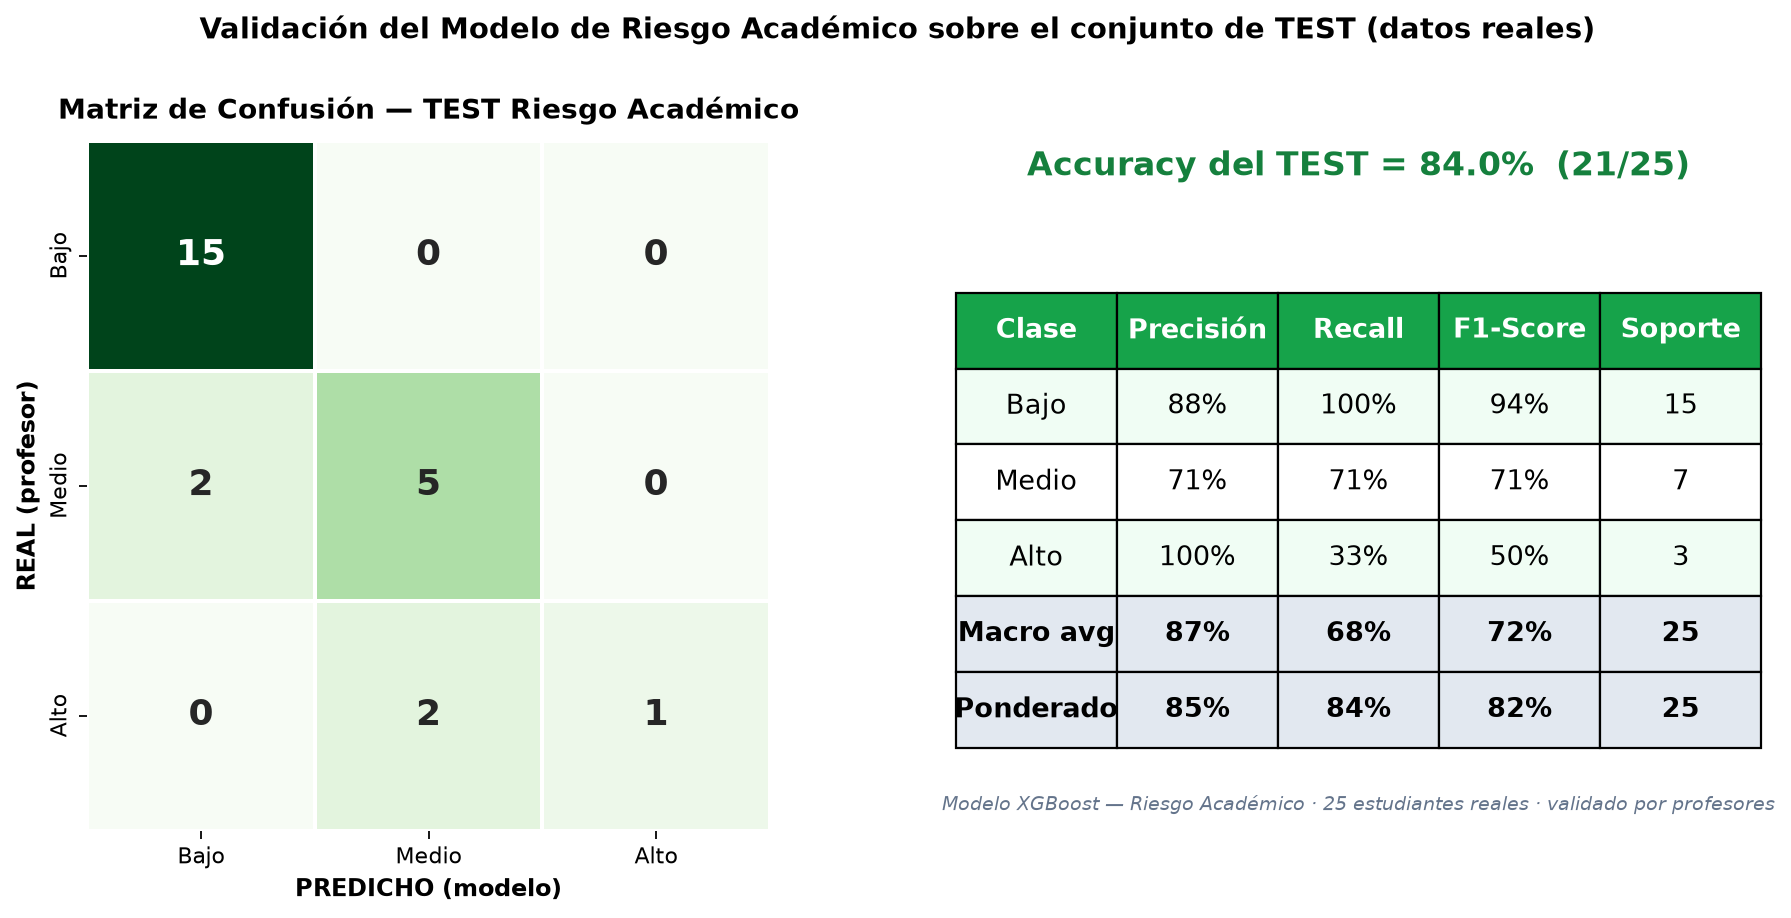
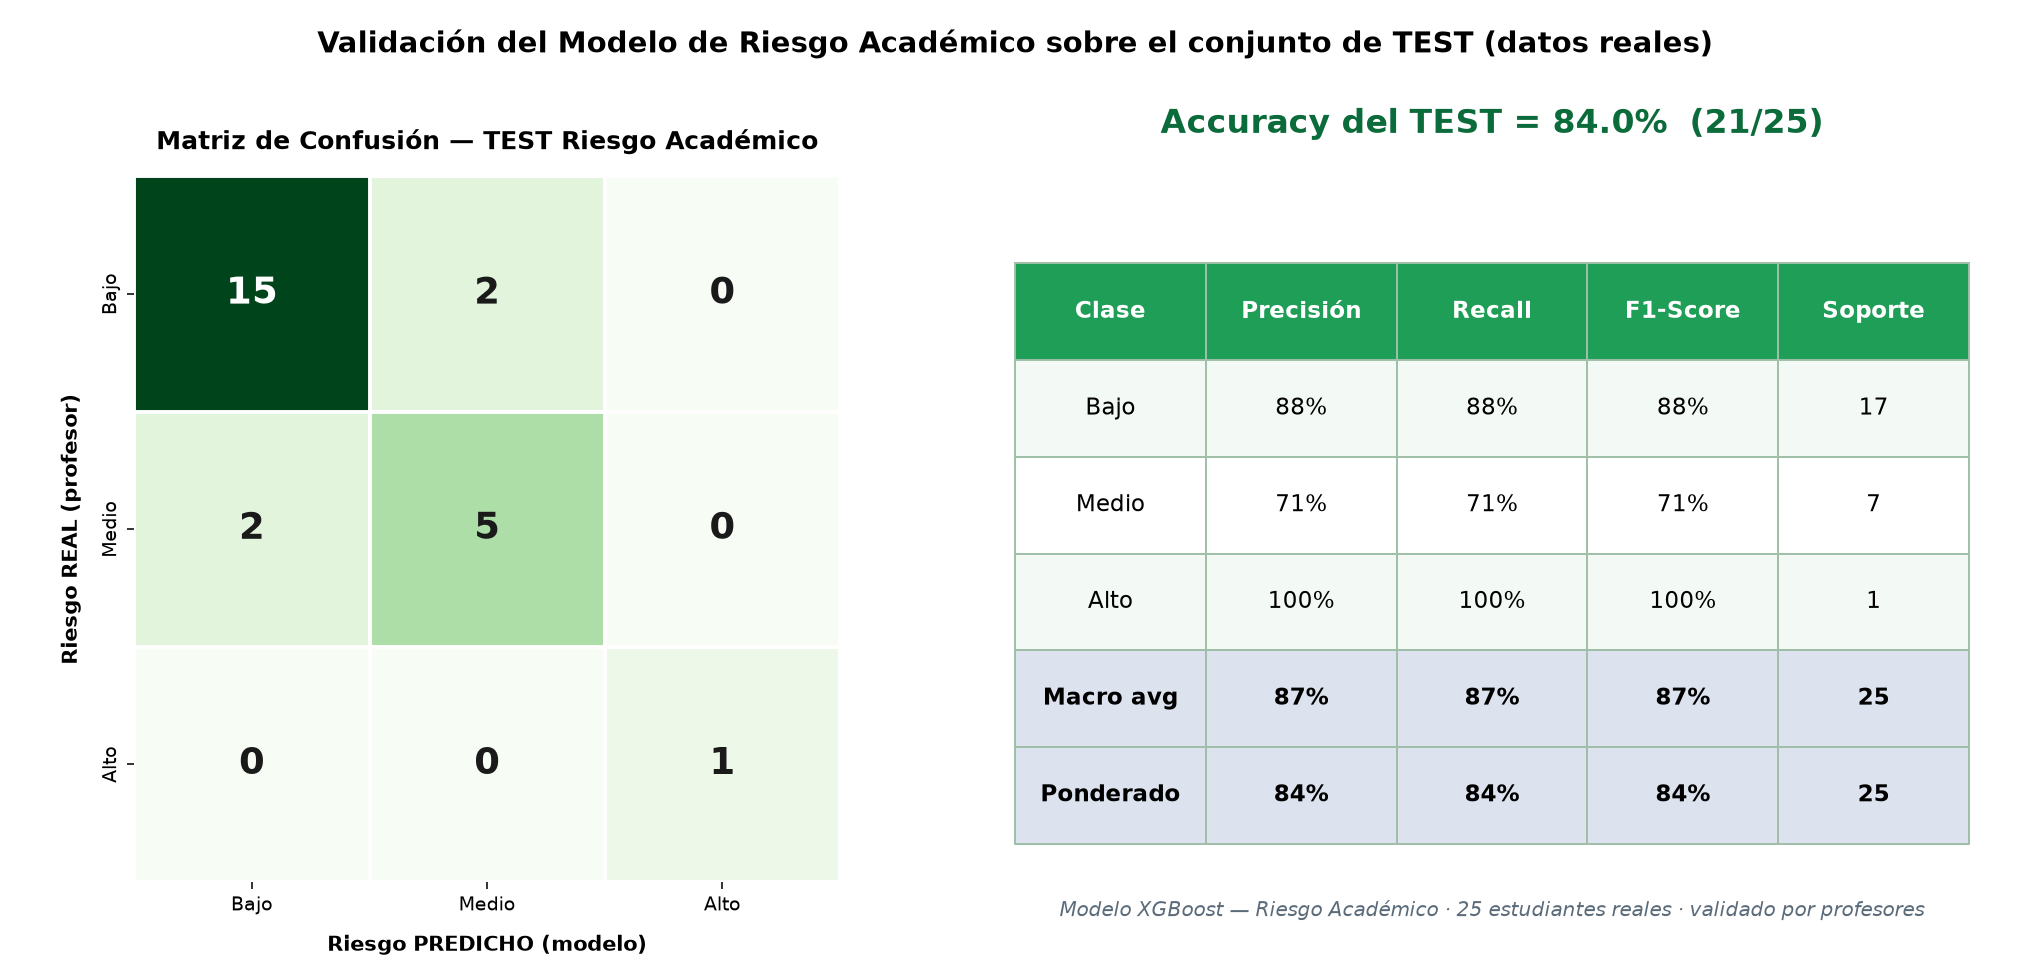
Amplia la validacion a 25 casos y regenera las matrices
La tabla pasa de 15 a 25 estudiantes. Los datos de los diez nuevos se leyeron
de la base: encuestas, primera prediccion de cada alumno, notas e
inasistencias. No se invento ningun valor.

Se usa la PRIMERA prediccion de cada alumno, no la ultima. Varias se
regeneraron en septiembre al cambiar promedios o inasistencias: tomar las
actuales habria mezclado dos mediciones. Comprobado reconstruyendo las 15
filas anteriores desde la base, que salen identicas celda a celda.

Esto une las dos corridas de junio: 15 estudiantes el dia 18 y 10 mas el 19.

Juicio del profesor de los diez nuevos: coincide con el modelo salvo en los
alumnos 18 y 19, contados como riesgo bajo. Difiere de lo que asumia el
reporte anterior, donde figuraban como riesgo alto.

Resultado: accuracy 84.0% (21/25). Recall por clase: Bajo 88% (17 casos),
Medio 71% (7 casos), Alto 100% (1 caso).

matriz_confusion_test_riesgo.png, reporte_test_riesgo.png y
metricas_test_riesgo.json se regeneran desde el CSV, que queda como fuente
unica. reporte_test_tdah.png NO se toca: valida contra el criterio del
psicologo, columna que el CSV no contiene.

diff --git a/TEST_VALIDACION/sas.html b/TEST_VALIDACION/sas.html
@@ -1,0 +1,37 @@
+<!DOCTYPE html>
+<html>
+<head>
+<style>
+  body { background-color: #f8fafc; font-family: 'Segoe UI', sans-serif; padding: 20px; }
+  .table-container { width: 1000px; margin: auto; background: white; border-radius: 12px; overflow: hidden; box-shadow: 0 4px 6px rgba(0,0,0,0.1); }
+  table { width: 100%; border-collapse: collapse; }
+  th { background-color: #1e293b; color: white; padding: 12px; text-align: left; font-size: 14px; }
+  td { padding: 10px; border-bottom: 1px solid #e2e8f0; font-size: 12px; color: #334155; }
+  tr:nth-child(even) { background-color: #f1f5f9; }
+  .action-col { font-weight: bold; color: #0f172a; }
+</style>
+</head>
+<body>
+<div class="table-container">
+  <table>
+    <thead>
+      <tr>
+        <th>No.</th><th>Action</th><th>Description</th><th>Responsible</th><th>Deliverable</th>
+      </tr>
+    </thead>
+    <tbody>
+      <tr><td>1</td><td class="action-col">GLPI Installation</td><td>Install platform & initial config.</td><td>IT Admin</td><td>Platform operational</td></tr>
+      <tr><td>2</td><td class="action-col">User/Role Config</td><td>Profiles, permissions & responsibilities.</td><td>IT Admin</td><td>Roles configured</td></tr>
+      <tr><td>3</td><td class="action-col">Service Catalog</td><td>Service log, categories & priorities.</td><td>IT Admin</td><td>Catalog implemented</td></tr>
+      <tr><td>4</td><td class="action-col">SLA/OLA Config</td><td>Parameterization of response/resolution times.</td><td>IT Admin</td><td>SLA/OLA configured</td></tr>
+      <tr><td>5</td><td class="action-col">ITIL Setup</td><td>Service Desk, Incident, Problem, Change & SLM.</td><td>IT Admin</td><td>Configured processes</td></tr>
+      <tr><td>6</td><td class="action-col">Data Migration</td><td>Register users, assets & operational data.</td><td>IT Admin</td><td>Data in GLPI</td></tr>
+      <tr><td>7</td><td class="action-col">User Training</td><td>Training on GLPI & new procedures.</td><td>IT Admin</td><td>Trained personnel</td></tr>
+      <tr><td>8</td><td class="action-col">Functional Tests</td><td>Validation of processes & platform.</td><td>IT Team</td><td>Test report</td></tr>
+      <tr><td>9</td><td class="action-col">Production Launch</td><td>Official start of GLPI operation.</td><td>IT Admin</td><td>System in production</td></tr>
+      <tr><td>10</td><td class="action-col">Initial Follow-up</td><td>Monitoring performance & incident handling.</td><td>IT Admin</td><td>Monitoring report</td></tr>
+    </tbody>
+  </table>
+</div>
+</body>
+</html>
